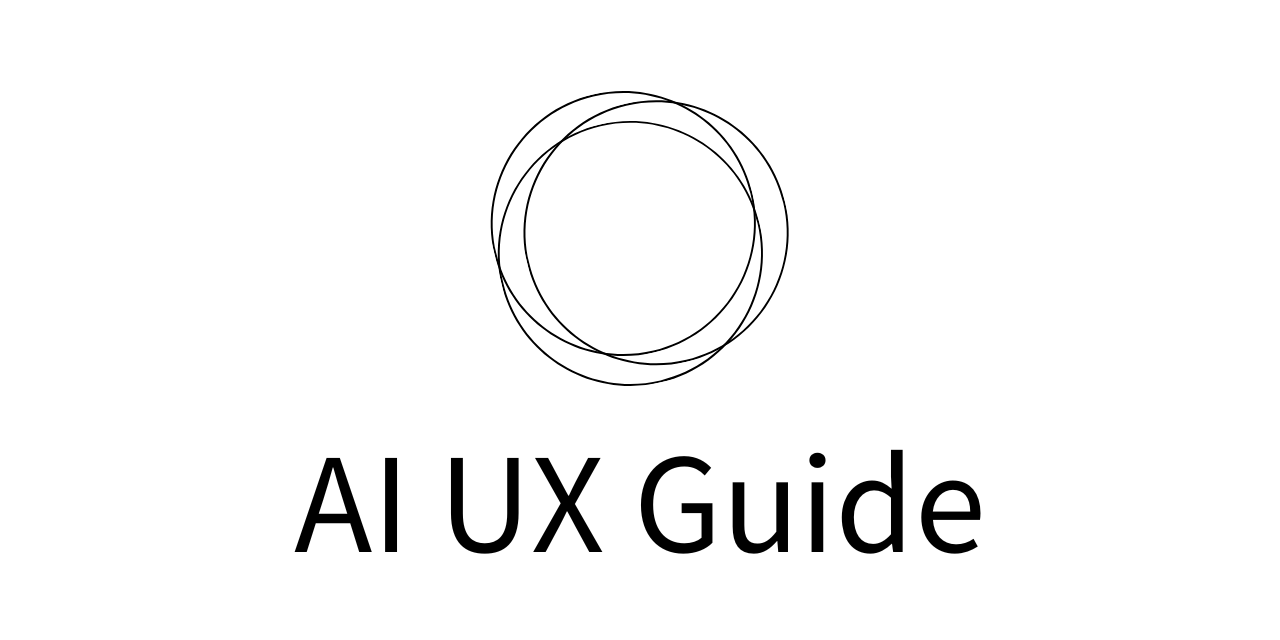
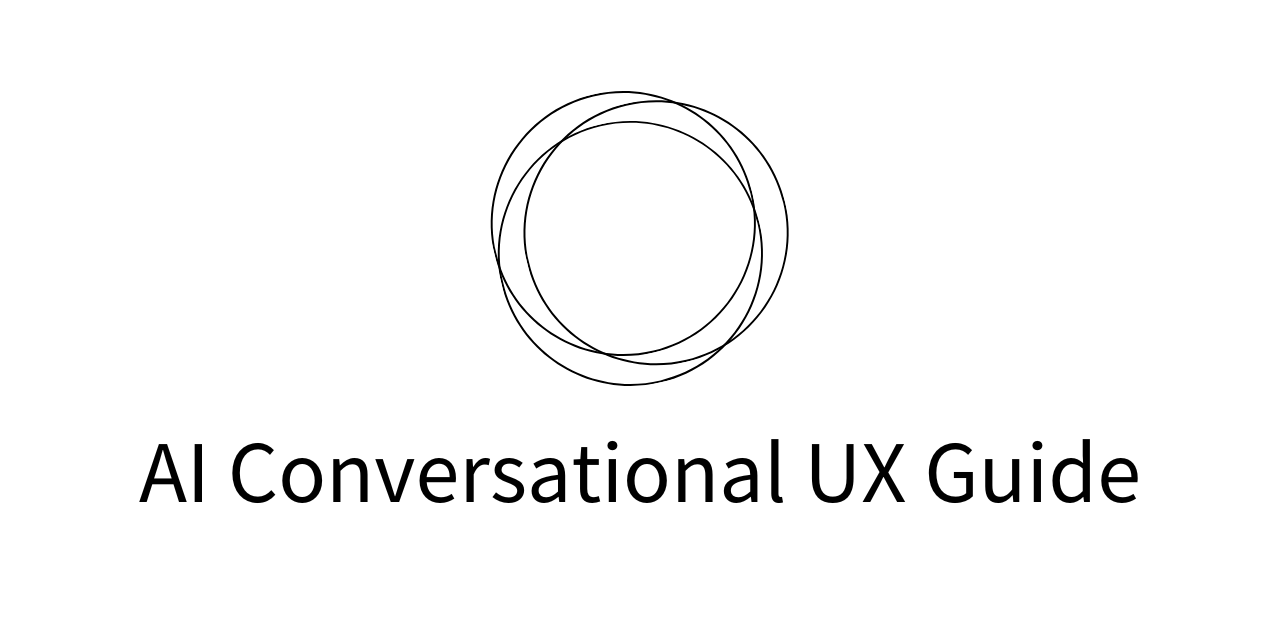
rename project

Changed region(s): [[0.0938, 0.6875, 0.9062, 0.875], [0.1875, 0.6875, 0.2188, 0.7188]]

diff --git a/guides/ja/CONTRIBUTING.md b/guides/ja/CONTRIBUTING.md
@@ -1,12 +1,12 @@
 # 会話型 UX ガイドへの貢献
 
-AI UX Guide Working Group の目標は、AI Native アプリケーションのベストプラクティスを収集し、文書化し、公開することです。理解、評価、適用を容易にするために、特定の構造でエンコードします。
+AI Conversational UX Guide Working Group の目標は、AI Native アプリケーションのベストプラクティスを収集し、文書化し、公開することです。理解、評価、適用を容易にするために、特定の構造でエンコードします。
 
 このワーキンググループが活発に活動するために、小さな貢献から大きな貢献まで、皆様のご参加をお待ちしております。
 
 ## 貢献方法
 
-AI UX Guide への寄稿をご検討ください。以下は、あなたがどのように貢献できるかについての提案です。
+AI Conversational UX Guide への寄稿をご検討ください。以下は、あなたがどのように貢献できるかについての提案です。
 
 - 意見を共有し、議論を促す：
   新鮮な視点、興味深い考え、あるいは初期の斬新なアイデアは、議論を誘発し、予測できない結果を生むことがあります。AI ネイティブアプリケーション関連のトピックについて、いつでも意見を共有できるよう、Issues を作成してください。

diff --git a/CONTRIBUTING.md b/CONTRIBUTING.md
@@ -1,12 +1,12 @@
-# Contributing to AI UX Guide
+# Contributing to AI Conversational UX Guide
 
-The goal of the AI UX Guide Working Group is to collect, document, and publish best practices for AI Native application. To make them easy to understand, evaluate, and apply, we encode them in a specific structure.
+The goal of the AI Conversational UX Guide Working Group is to collect, document, and publish best practices for AI Native application. To make them easy to understand, evaluate, and apply, we encode them in a specific structure.
 
 We welcome your participation, whether you make small or large contributions, for this working group to actively operate.
 
 ## How to Contribute
 
-Please consider contributing to AI UX Guide. Below are suggestions on how you can contribute.
+Please consider contributing to AI Conversational UX Guide. Below are suggestions on how you can contribute.
 
 - Share opinions and encourage discussion:
   Fresh perspectives, interesting thoughts, or early novel ideas can provoke discussions and produce unpredictable outcomes. Please create Issues to share your opinions on AI Native application-related topics anytime.

diff --git a/guides/en/CONTRIBUTING.md b/guides/en/CONTRIBUTING.md
@@ -1,12 +1,12 @@
-# Contributing to AI UX Guide
+# Contributing to AI Conversational UX Guide
 
-The goal of the AI UX Guide Working Group is to collect, document, and publish best practices for AI Native application. To make them easy to understand, evaluate, and apply, we encode them in a specific structure.
+The goal of the AI Conversational UX Guide Working Group is to collect, document, and publish best practices for AI Native application. To make them easy to understand, evaluate, and apply, we encode them in a specific structure.
 
 We welcome your participation, whether you make small or large contributions, for this working group to actively operate.
 
 ## How to Contribute
 
-Please consider contributing to AI UX Guide. Below are suggestions on how you can contribute.
+Please consider contributing to AI Conversational UX Guide. Below are suggestions on how you can contribute.
 
 - Share opinions and encourage discussion:
   Fresh perspectives, interesting thoughts, or early novel ideas can provoke discussions and produce unpredictable outcomes. Please create Issues to share your opinions on AI Native application-related topics anytime.

diff --git a/guides/ja/README.md b/guides/ja/README.md
@@ -1,6 +1,6 @@
-# AI UX Guide
+# AI Conversational UX Guide
 
-![AI UX Guide](./main.png)
+![AI Conversational UX Guide](./main.png)
 
 言語モデルを利用したアプリケーションの普及により、アプリケーション開発者は、未知なる会話型 UX について考えることになりました。
 このガイドでは、言語モデルのアプリケーション上での振る舞いの特性と会話型 UX を設計する際の指針についてまとめています。

diff --git a/README.md b/README.md
@@ -1,6 +1,6 @@
-# AI UX Guide
+# AI Conversational UX Guide
 
-![AI UX Guide](./main.png)
+![AI Conversational UX Guide](./main.png)
 
 The proliferation of applications that use language models has caused application developers to consider the unknown conversational UX.
 This guide summarizes the characteristics of how language models behave in applications and provides guidelines for designing conversational UX.

diff --git a/guides/en/README.md b/guides/en/README.md
@@ -1,6 +1,6 @@
-# AI UX Guide
+# AI Conversational UX Guide
 
-![AI UX Guide](./main.png)
+![AI Conversational UX Guide](./main.png)
 
 The proliferation of applications that use language models has caused application developers to consider the unknown conversational UX.
 This guide summarizes the characteristics of how language models behave in applications and provides guidelines for designing conversational UX.
